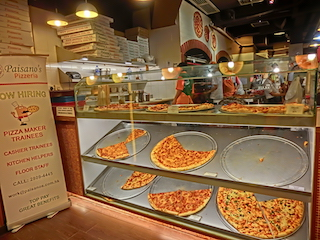
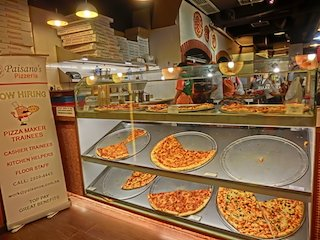
Feat: js and image optimizations
- using optimized versions of the pizzeria and profilepic image
- minified the perfmatters js

diff --git a/js/perfmatters.js b/js/perfmatters.js
@@ -1,14 +1,1 @@
-// Measuring the Critical Rendering Path with Navigation Timing
-// https://developers.google.com/web/fundamentals/performance/critical-rendering-path/measure-crp
-
-function logCRP() {
-  var t = window.performance.timing,
-    dcl = t.domContentLoadedEventStart - t.domLoading,
-    complete = t.domComplete - t.domLoading;
-  var stats = document.getElementById("crp-stats");
-  stats.textContent = 'DCL: ' + dcl + 'ms, onload: ' + complete + 'ms';
-}
-
-window.addEventListener("load", function(event) {
-  logCRP();
-});
+function logCRP(){var t=window.performance.timing,dcl=t.domContentLoadedEventStart-t.domLoading,complete=t.domComplete-t.domLoading;var stats=document.getElementById("crp-stats");stats.textContent='DCL: '+dcl+'ms, onload: '+complete+'ms';}window.addEventListener("load",function(event){logCRP();});
